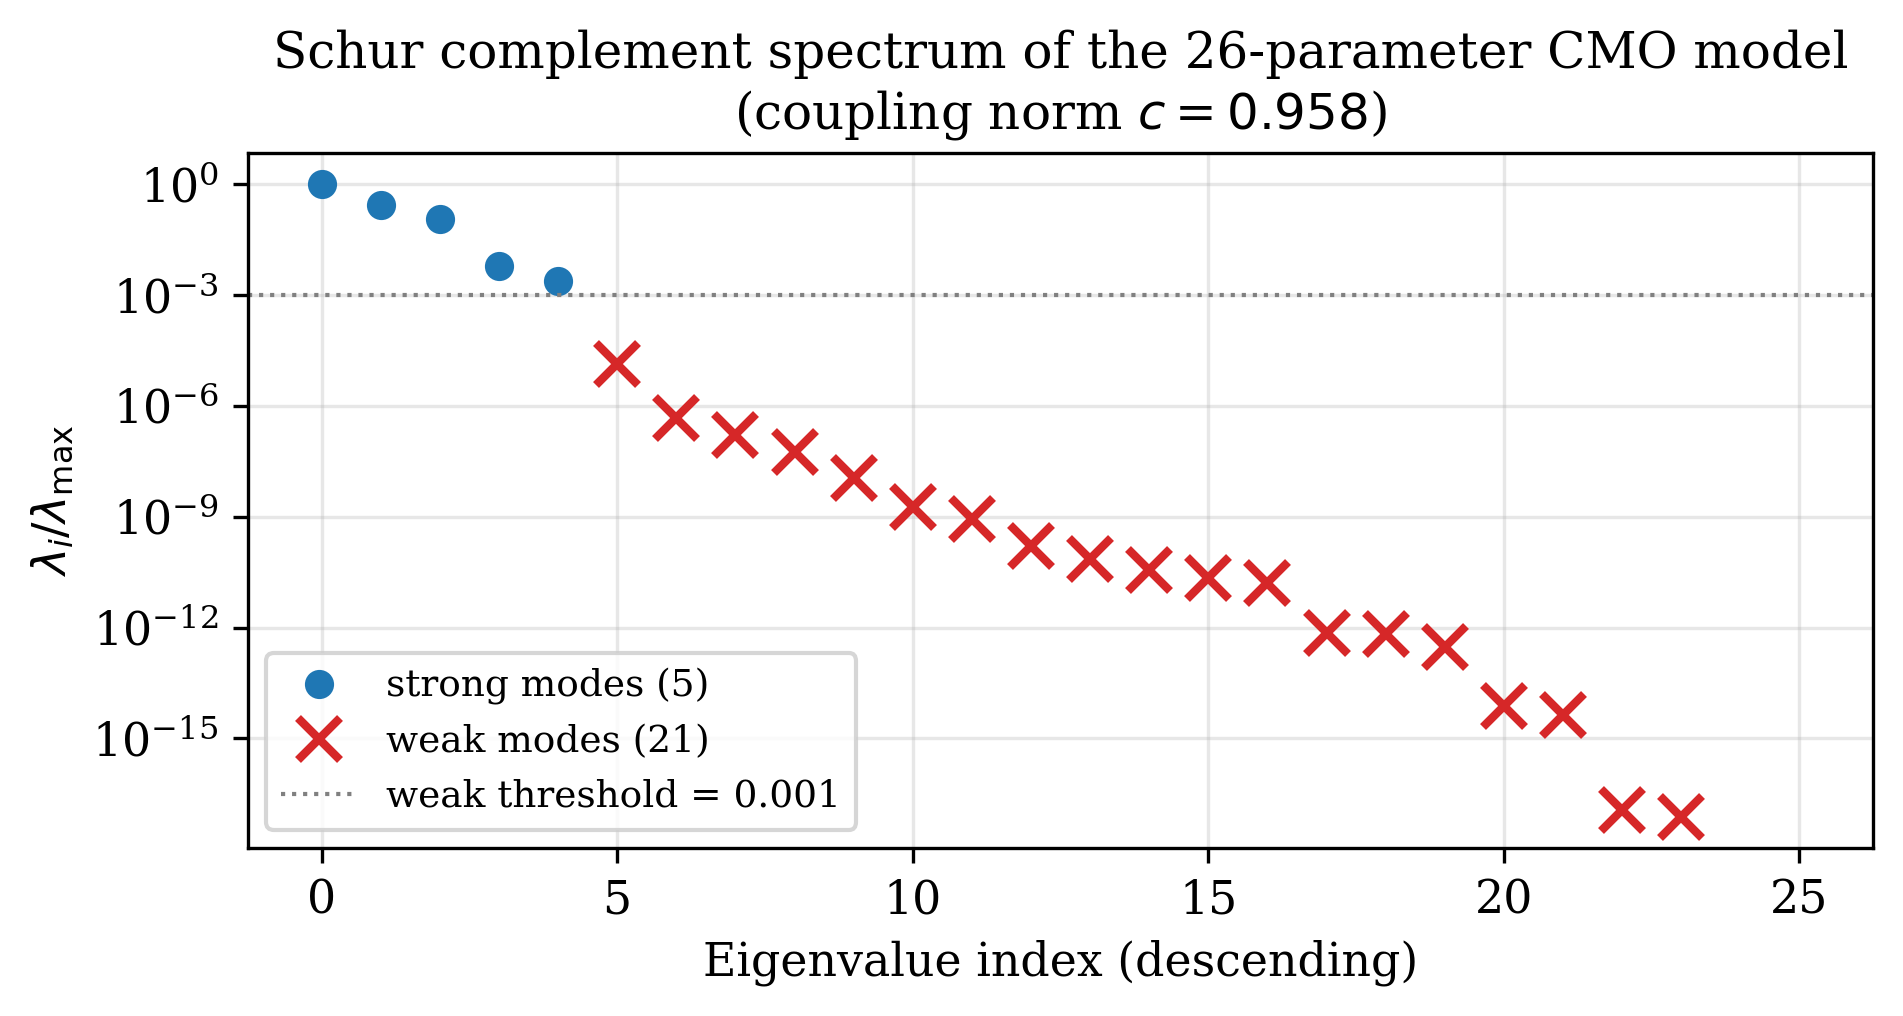
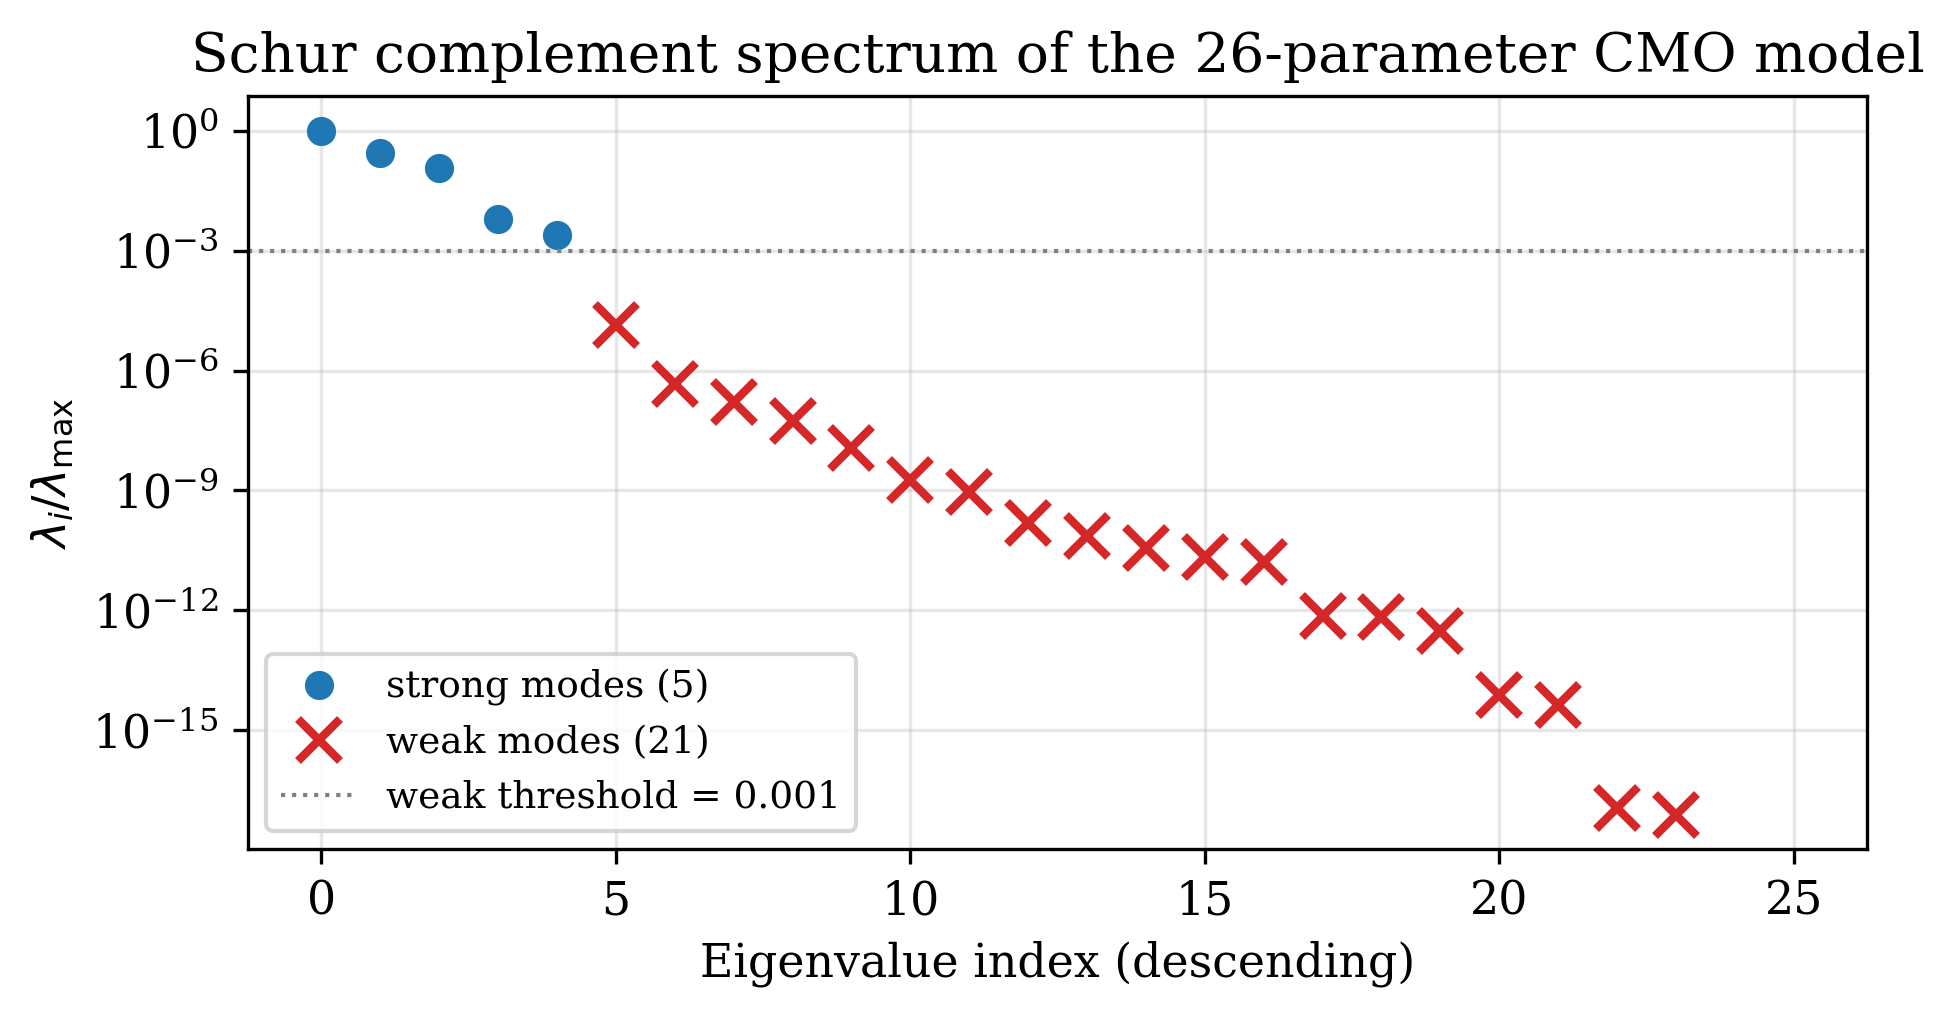
fix(paper): Option A′ — Schur prior as explicit contribution (ChatGPT review)
Fixes:
- Broken Table ref (tab:model_comparison → tab:models)
- Figure 8 coupling norm: use real Pycaso value c=0.96, note synthetic
  oracle gives c≈0.81
- Figure 8 regenerated without coupling value in title (the text carries
  the number)

Narrative (A′ — Schur prior stays in body, but now explicit):
- Abstract: add one sentence on the observability prior
- Introduction: contribution #4 now states the double role explicitly
  (initialiser + prior, 280× drift reduction at 0.038 px cost)
- Conclusion: updated to list the Schur prior as a result, and
  reframes the rayfield as "multi-purpose instrument: it measures,
  it diagnoses, it initialises, and it regularises"

diff --git a/paper/cmo/manuscript.tex b/paper/cmo/manuscript.tex
@@ -49,6 +49,7 @@ We present a two-stage approach: first, a Zernike rayfield---a per-pixel 3D line
 On 10 stereo pairs from the open Pycaso dataset, the final 26-parameter model---a quasi-telecentric CMO skeleton with per-channel SE(3) arm alignment---achieves \SI{1.06}{px} reprojection error (P50=\SI{0.87}{px}, P95=\SI{1.84}{px}), compared to $>300$~px for standard OpenCV stereo calibration. All geometric descriptors (baseline, working distance, convergence angle) are reported within the chosen rayfield gauge and fixed reference focal scale ($f_x=25600$~px); their absolute metrological values require an independent external reference.
 A ray-space BIC comparison followed by an operational reprojection guard selects this model as the best usable physical model; the guard is an engineering usability criterion, not a likelihood-derived BIC term.
 The Zernike rayfield serves not merely as a calibration model but as a diagnostic instrument: it tells the user \emph{which} physical degree of freedom is missing, guiding hypothesis refinement through residual structure rather than blind fitting.
+Furthermore, the rayfield provides an observability prior for direct bundle adjustment: the Schur complement of the Fisher information matrix at the rayfield solution identifies optical directions that are poorly observable after pose marginalisation, and a per-eigenmode penalty constructed from this spectrum suppresses optics--pose compensation while preserving the genuinely observable degrees of freedom.
 \end{abstract}
 
 \textbf{Keywords:} stereo microscope; CMO; non-central calibration; Zernike rayfield; BIC model selection; telecentricity
@@ -90,7 +91,7 @@ The contributions are:
   \item A complete pipeline from raw ChArUco images to a compact 26-parameter physical CMO model, validated on real data.
   \item A residual analysis method---Zernike modal decomposition of direction and moment differences between a candidate physical model and the measured rayfield---that identifies missing degrees of freedom.
   \item A two-level model-selection framework: ray-space BIC is used to identify the optical family, while a separate operational reprojection guard rejects models whose pixel RMS is not usable for calibration.
-    \item Demonstration that the Zernike rayfield is an excellent initialiser for direct corner bundle adjustment: a joint model+pose refinement (200~nfev, soft-L1 loss) improves pixel RMS from \SI{1.06}{px} to \SI{0.88}{px} (\SI{+17}{\percent}) while leaving all 26 model parameters unchanged to within $10^{-3}$, confirming that the rayfield-initialised parameters are already near-optimal for corner reprojection.
+    \item Demonstration that the Zernike rayfield serves a \emph{double role} in direct bundle adjustment: (i)~as an initialiser, it places the BA in the correct convergence basin, improving pixel RMS from \SI{1.06}{px} to \SI{0.88}{px} (\SI{+17}{\percent}) while leaving all 26 model parameters unchanged to within $10^{-3}$; (ii)~as an \emph{observability prior}, the Schur complement of the Fisher information matrix at the rayfield solution defines an anisotropic penalty that suppresses optics--pose compensation---the prior reduces weak-mode parameter drift by a factor of $280\times$ (from 0.93 to 0.0033) at a cost of only \SI{0.038}{px} in 2-D reprojection RMS.
 \end{enumerate}
 
 % ======================================================================
@@ -431,13 +432,13 @@ In the StereoComplex direct-BA diagnostic implementation, a CMO-like configurati
 This means that 81\,\% of the apparent information about optical parameters is absorbed by pose coupling---the two parameter blocks are nearly inseparable.
 By contrast, the rayfield-mediated pipeline operates with $c = 0.0$: the Zernike BA absorbs pose uncertainty into the rayfield through its constrained shared-rotation model (15 pose parameters), and the ray-space model identification stage is entirely pose-free.
 
-Figure~\ref{fig:schur} shows the normalised eigenvalue spectrum of the Schur complement $S_\theta$ on the 26-parameter CMO optical block. Of the 26 eigenvalues, the trailing modes (red crosses, $\lambda_i/\lambda_{\max} < 10^{-3}$) collapse after pose marginalisation---these are precisely the directions penalised by the Schur prior (Section~\ref{sec:schur_prior}). The coupling norm $c = 0.81$ quantifies why direct BA is ill-conditioned for this non-central system: \SI{81}{\percent} of the apparent optical information is absorbed by pose coupling.
+Figure~\ref{fig:schur} shows the normalised eigenvalue spectrum of the Schur complement $S_\theta$ on the 26-parameter CMO optical block, evaluated at the rayfield-initialised Pycaso solution. Of the 26 eigenvalues, the trailing modes (red crosses, $\lambda_i/\lambda_{\max} < 10^{-3}$) collapse after pose marginalisation---these are precisely the directions penalised by the Schur prior (Section~\ref{sec:schur_prior}). The coupling norm for the real Pycaso configuration is $c = 0.96$ (synthetic CMO-like oracles give $c \approx 0.81$), confirming that \SI{96}{\percent} of the apparent optical information is absorbed by pose coupling.
 Schur-coupling values for the other oracles (pinhole, Brown-Conrady, parallel-plate, Greenough) were not reliably computable from the current diagnostic infrastructure and are therefore not reported.
 
 \begin{figure}[!htbp]
 \centering
 \includegraphics[width=0.85\textwidth]{figures/schur_spectrum.pdf}
-\caption{Normalised eigenvalue spectrum of the Schur complement $S_\theta$ on the 26-parameter CMO optical block. Eigenvalues below the weak threshold $\lambda_i/\lambda_{\max} < 10^{-3}$ (red crosses) are the poorly observable directions after pose marginalisation---these are the modes penalised by the Schur prior in Section~\ref{sec:schur_prior}. The coupling norm is $c = 0.81$.}
+\caption{Normalised eigenvalue spectrum of the Schur complement $S_\theta$ on the 26-parameter CMO optical block, computed from the rayfield-initialised Pycaso model. Eigenvalues below the weak threshold $\lambda_i/\lambda_{\max} < 10^{-3}$ (red crosses) are the poorly observable directions after pose marginalisation---these are the modes penalised by the Schur prior in Section~\ref{sec:schur_prior}. The coupling norm for this configuration is $c = 0.96$ (synthetic CMO-like oracles give $c \approx 0.81$; see Section~\ref{sec:schur_conditioning}).}
 \label{fig:schur}
 \end{figure}
 
@@ -483,7 +484,7 @@ The prior is added to the least-squares objective as $n_\theta$ extra residual r
 \subsubsection{Prior Sweep and Comparison with Tikhonov Baseline}
 
 \textbf{Two BA configurations must be distinguished.}
-Section~\ref{sec:corner_ba} reports a \emph{constrained-pose} corner BA: the board rotation is shared across frames and only the Z translation varies, yielding \SI{1.06}{px} $\to$ \SI{0.88}{px} (Table~\ref{tab:model_comparison}) with 15 pose parameters.
+Section~\ref{sec:corner_ba} reports a \emph{constrained-pose} corner BA: the board rotation is shared across frames and only the Z translation varies, yielding \SI{1.06}{px} $\to$ \SI{0.88}{px} (Table~\ref{tab:models}) with 15 pose parameters.
 The sweep in this section intentionally \emph{releases the pose constraint}: each of the 10 frames has a free 6-DOF pose (60 pose parameters), exposing the full optics--pose coupling identified by the Schur diagnostic of Section~\ref{sec:schur_conditioning}.
 The resulting unregularised RMS (\SI{0.241}{px}) is lower than the constrained-pose BA precisely because the free poses can absorb residual rayfield errors---which is exactly the compensation the Schur prior is designed to prevent.
 The two RMS values should not be conflated: the \SI{0.88}{px} is the operational calibration result; the \SI{0.241}{px} is a diagnostic upper bound obtained by deliberately exposing the ill-conditioned coupling.
@@ -844,10 +845,10 @@ The key results are:
   \item A compact 26-parameter physical model (quasi-telecentric CMO skeleton + per-channel SE(3) arm alignment) achieves \SI{1.06}{px} reprojection (P50=\SI{0.87}{px}, P95=\SI{1.84}{px}) where standard OpenCV stereo calibration fails ($>300$~px).
   \item The Zernike rayfield serves as a diagnostic instrument: residual modal analysis identifies missing degrees of freedom, and the operational usability score with reprojection guard correctly selects the usable model.
   \item Effective rayfield descriptors---baseline, working distance, focal length, convergence angle---are read directly from the measured rays (within the chosen rayfield gauge and reference scale), without fitting a physical model.
-  \item The rayfield-initialised parameters are near-optimal for direct corner bundle adjustment (\SI{17}{\percent} improvement).
+  \item The rayfield-initialised parameters are near-optimal for direct corner bundle adjustment (\SI{17}{\percent} improvement), and the same rayfield provides a Schur-complement observability prior that stabilises the BA against optics--pose compensation.
 \end{itemize}
 
-The CMO Pycaso case study validates a generalisable methodology: measure first, model second, diagnose by residual, refine by hypothesis testing.
+The CMO Pycaso case study validates a generalisable methodology---measure first, model second, diagnose by residual, refine by hypothesis testing---and establishes the Zernike rayfield as a multi-purpose instrument: it measures, it diagnoses, it initialises, and it regularises.
 Code, data, and documentation are publicly available at \url{https://github.com/jeffwitz/StereoComplex}. A Zenodo archive of the submitted version will be deposited before journal submission.
 
 \subsection*{Prospective}
